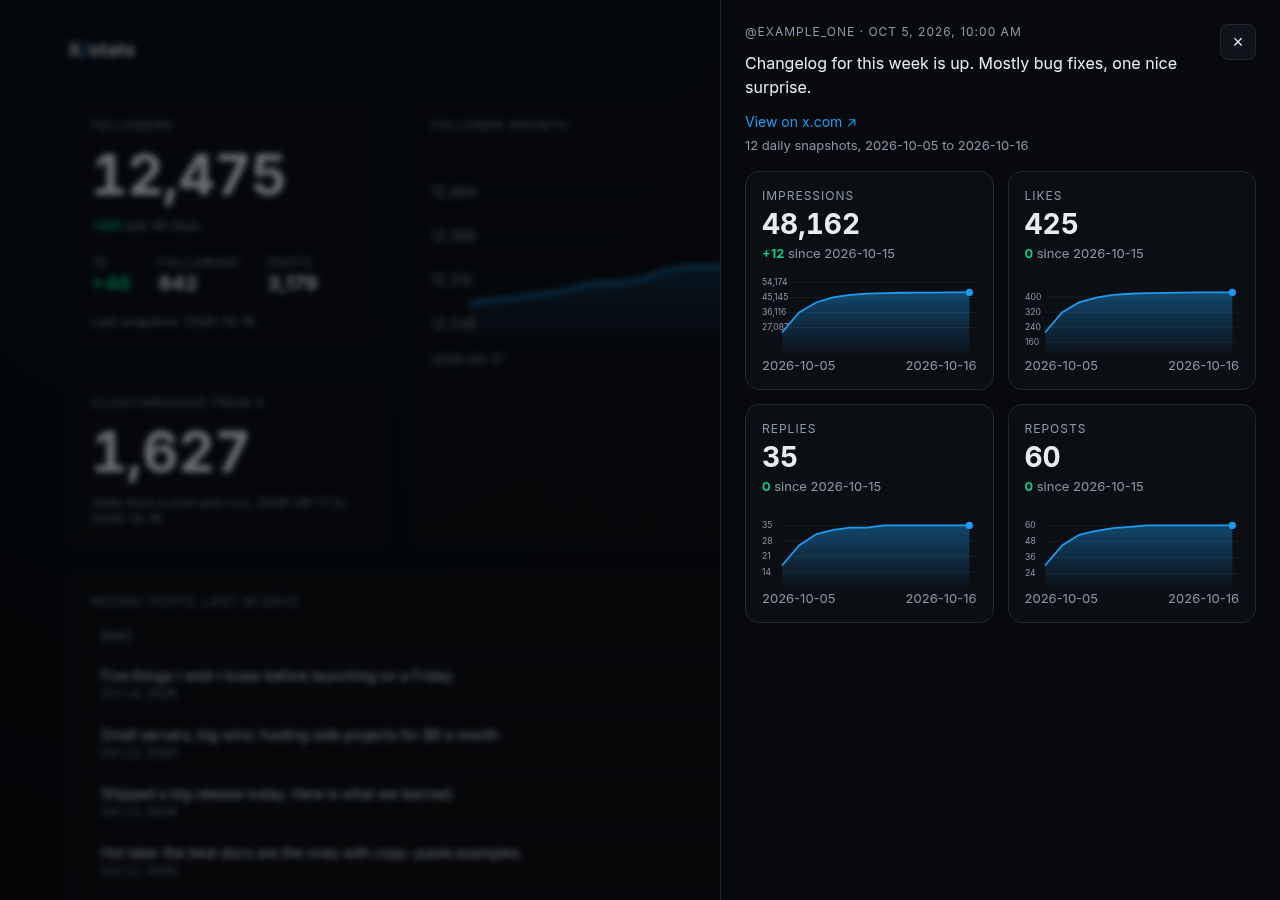
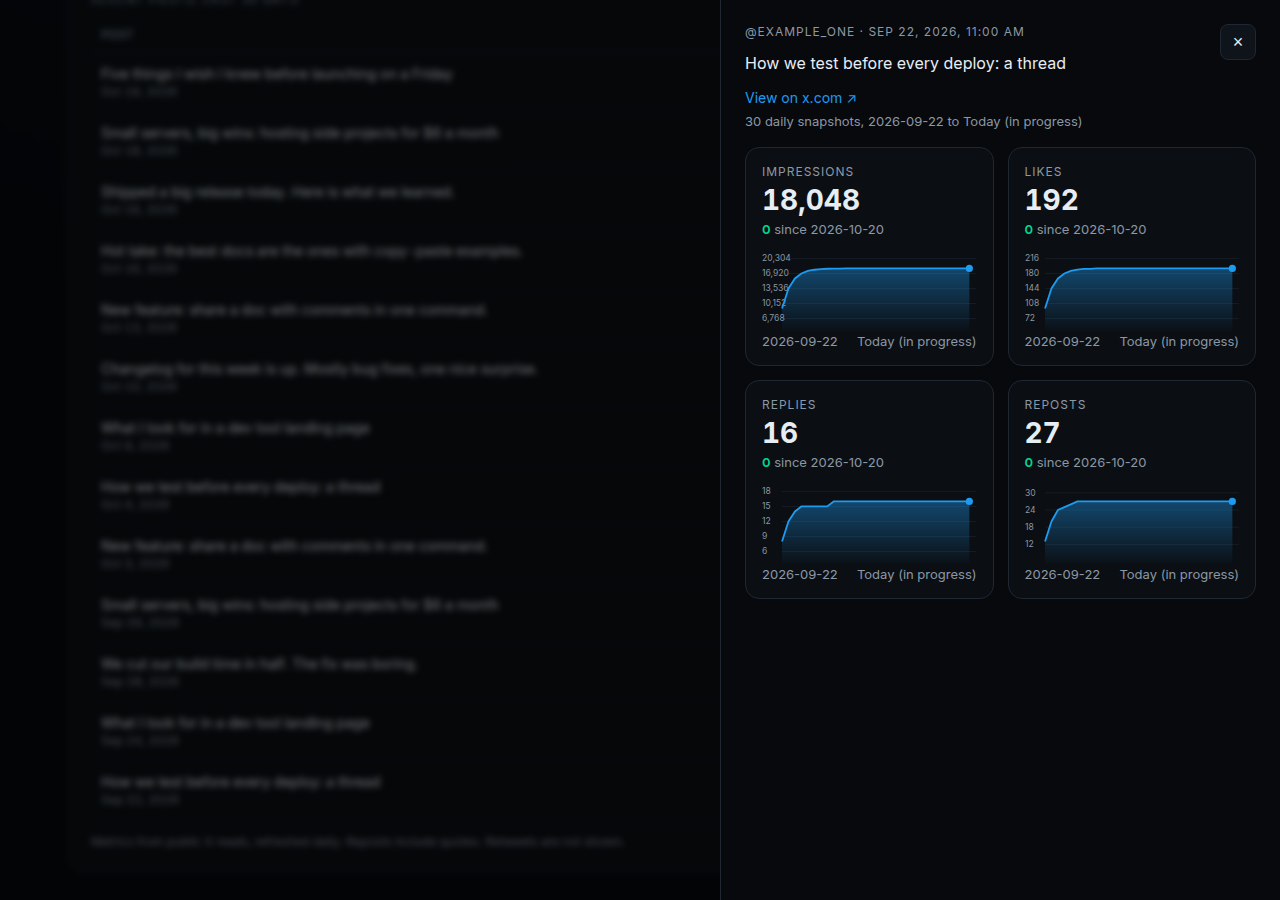
Refresh README screenshots for the engagement score bars. (#3)
Recapture the dashboard, hover card, drill-in, and mobile shots from the demo seed so the follower growth chart shows the daily score bars.

diff --git a/README.md b/README.md
@@ -4,6 +4,8 @@ A small, self-hosted X (Twitter) stats dashboard. Track follower growth and per-
 
 ![Dashboard, dark theme, fake demo data](docs/dark-desktop.png)
 
+![Follower growth hover card, dark theme, fake demo data](docs/growth-hover-dark.png)
+
 ## Features
 
 - Account switcher for any number of accounts
